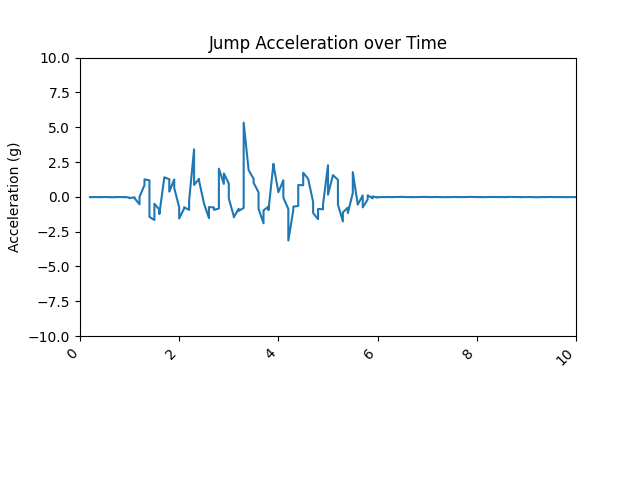
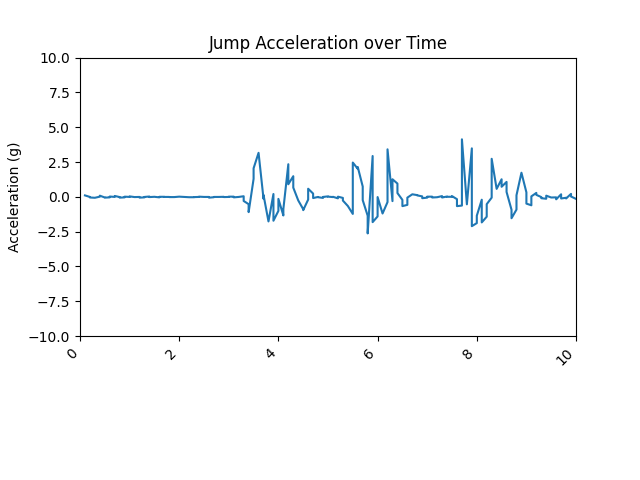
filtering

Changed region(s): [[0.125, 0.25, 0.9062, 0.5]]

diff --git a/User_Scripts/udp_receive_jumping.py b/User_Scripts/udp_receive_jumping.py
@@ -81,7 +81,10 @@ plt.show()
 
 # maximum acceleration data
 # Filtering out values where the absolute value is less than 0.2
-filtered_acc = [value for value in linear_acc_list if abs(value) >= 0.2]
+filtered_acc = []
+for value in linear_acc_list:
+    if abs(value[1]) >= 0.2:
+        filtered_acc.append(value[1])
 
 # Print the filtered values
 print(filtered_acc)
